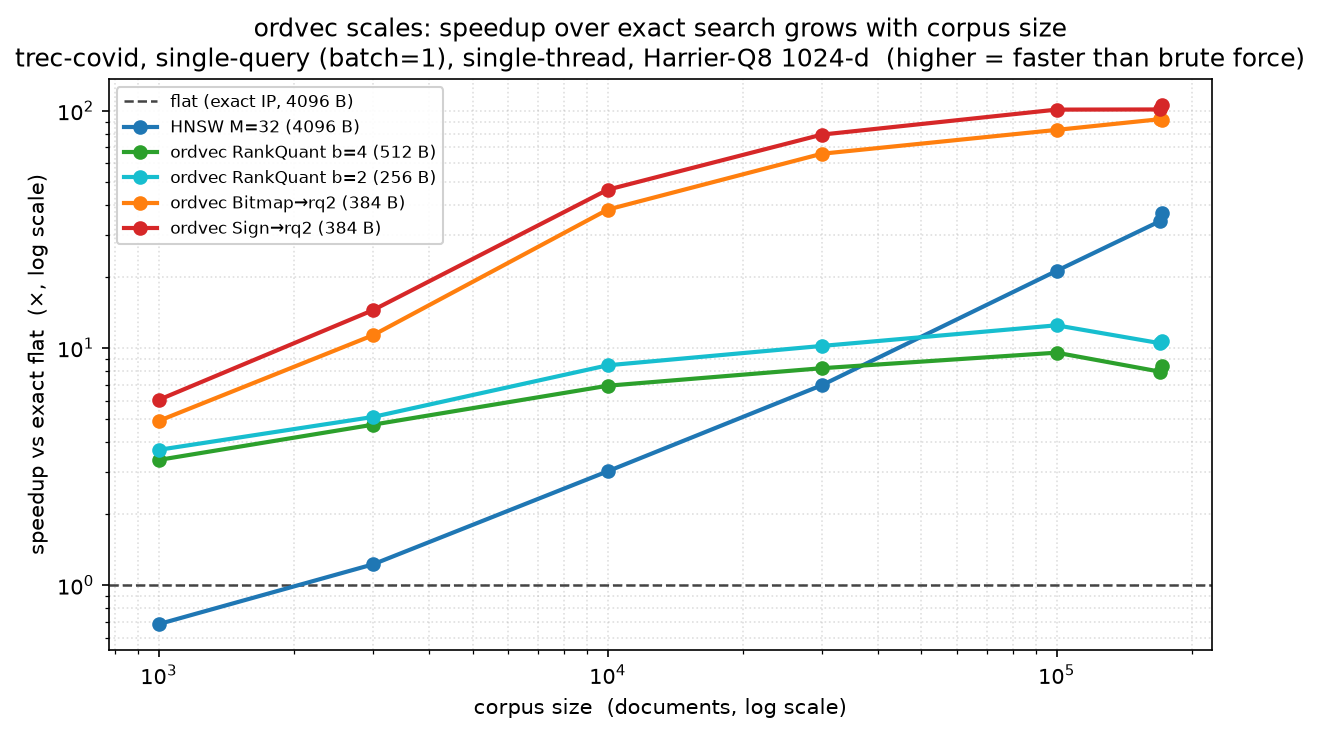
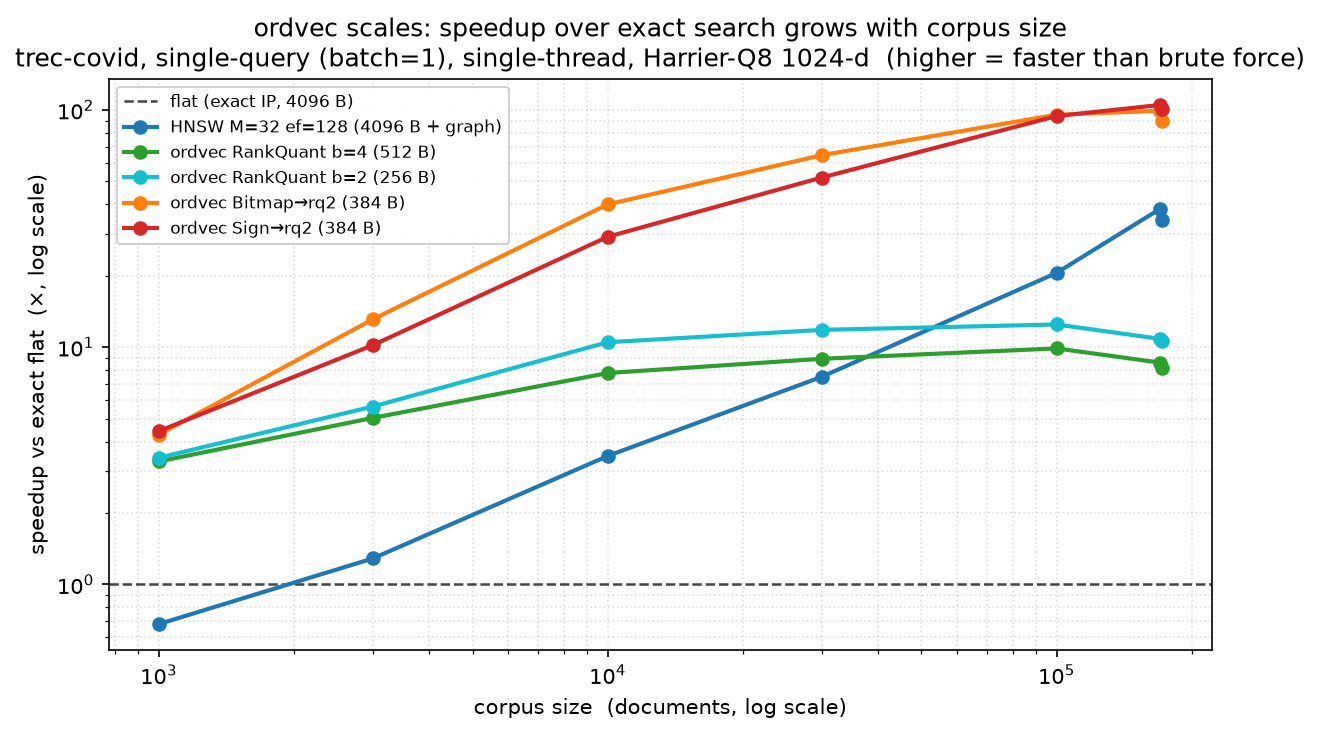
docs: refresh README benchmarks at the 0.6.0 heads
All figures and numbers regenerated by the committed make benchmark-beir
pipeline on the same host class (9950X). Quality: nDCG within bootstrap
noise of exact on both datasets, sign-rq2 trec-covid 0.7638 unchanged
(deterministic selection held bit-identical through the perf train).
Single-query hero effectively unchanged (52.4 ms flat vs 0.52 ms
sign-rq2, ~101x) — that lane was intentionally untouched. Batched
1-thread view improves to ~10-12x over batched flat (once-per-call
corpus streaming); threaded view: HNSW still leads, margin narrowed
from ~2.3x to 1.6x over sign-rq2 (1.2x over bitmap-rq2). Build 47.1s
vs 0.21s. No larger-corpus claims added.

diff --git a/README.md b/README.md
@@ -38,9 +38,10 @@ append-friendly, and graph-optional.
 > trec-covid run below; the harness also supports nfcorpus and fiqa. ordvec wins
 > single-query latency against exact `flat` on the committed 171K-doc run and on
 > operability (no build, no tuning, append-only); in the committed default-method
-> threaded view, HNSW still wins highly-parallel batched serving. Larger-corpus
-> and alternate-encoder studies are active research, not public release claims
-> until their artifacts land in this repository.**
+> threaded view, HNSW still leads highly-parallel batched serving, though 0.6.0's
+> once-per-call corpus streaming narrowed that margin (see the threaded view
+> below). Larger-corpus and alternate-encoder studies are active research, not
+> public release claims until their artifacts land in this repository.**
 
 **Public evidence snapshot.** The load-bearing result in this README is narrower
 than the research backlog: Harrier-Q8 embeddings on public BEIR data, scored
@@ -60,8 +61,8 @@ and the gap widens over the committed subsampling sweep:
 ![ordvec speedup over exact search grows with corpus size](https://raw.githubusercontent.com/Project-Navi/ordvec/main/benchmarks/beir/figures/scaling_curve.png)
 
 - **~100× faster than exact `flat`, single query, at 171K docs.** Single-query
-  latency: exact `flat` 56 ms vs ordvec `Sign→rq2` **0.53 ms** — the gap over `flat`
-  grows with the corpus (it is ~5× at 1K docs).
+  latency: exact `flat` 52.4 ms vs ordvec `Sign→rq2` **0.52 ms (≈101×)** — the gap
+  over `flat` grows with the corpus (it is ~4.4× at 1K docs).
 - **8–16× smaller for the reported qrel rows.** The b=2 rank code is 256 B/vector
   (16× smaller than 4096 B floats), b=4 is 512 B (8×), and the reported two-stage
   `sign→rq2` row accounts for both stage-1 sign codes and the RankQuant reranker
@@ -70,8 +71,10 @@ and the gap widens over the committed subsampling sweep:
   followed by RankQuant b=2 rerank. At **nDCG@10 within bootstrap noise of exact**
   (on trec-covid the ordinal rows even edge ahead; see [Benchmarks](#benchmarks)).
 - **vs HNSW (the honest public scale story).** On the committed trec-covid run,
-  ordvec wins single-query latency while HNSW wins the highly-parallel threaded
-  view. That is the public comparison here. At larger corpora, graph or shard
+  ordvec wins single-query latency (≈3× at batch 1) while HNSW leads the
+  highly-parallel threaded view — by 1.6× over `sign→rq2` and 1.2× over
+  `bitmap→rq2` after 0.6.0's batched candidate generation (previously ≈2.3×).
+  That is the public comparison here. At larger corpora, graph or shard
   layers are the right comparison target; this README does not claim public
   million-scale HNSW crossover or GPU bandwidth numbers until the underlying run
   artifacts are committed.
@@ -384,13 +387,13 @@ run; regenerate your own with `make benchmark-beir`.
 
 | Dataset | Method | Bytes/vec | nDCG@10 | Δ vs flat (95% CI) |
 |---|---|--:|--:|---|
-| scifact (5,183) | `flat` (exact) | 4096 | 0.7551 | (baseline) |
-| | `hnsw` M=32 | 4096 + graph | 0.7554 | +0.0003 * |
-| | **ordvec rq4** | **512** | **0.7549** | −0.0003 * |
-| | ordvec rq2 | 256 | 0.7471 | −0.0080 * |
-| | ordvec sign→rq2 | 384 | 0.7471 | −0.0080 * |
+| scifact (5,183) | `flat` (exact) | 4096 | 0.7559 | (baseline) |
+| | `hnsw` M=32 | 4096 + graph | 0.7573 | +0.0014 * |
+| | **ordvec rq4** | **512** | **0.7580** | +0.0021 * |
+| | ordvec rq2 | 256 | 0.7484 | −0.0075 * |
+| | ordvec sign→rq2 | 384 | 0.7484 | −0.0075 * |
 | trec-covid (171,332) | `flat` (exact) | 4096 | 0.7574 | (baseline) |
-| | `hnsw` M=32 | 4096 + graph | 0.7555 | −0.0019 * |
+| | `hnsw` M=32 | 4096 + graph | 0.7600 | +0.0026 * |
 | | ordvec rq2 | 256 | 0.7632 | +0.0057 * |
 | | **ordvec rq4** | **512** | **0.7636** | +0.0062 * |
 | | ordvec sign→rq2 | 384 | 0.7638 | +0.0064 * |
@@ -411,33 +414,37 @@ views (trec-covid, 171,332 docs, 1024-d):
 
 ![single-query latency bars](https://raw.githubusercontent.com/Project-Navi/ordvec/main/benchmarks/beir/figures/bars_single_thread.png)
 
-`flat` 56 ms → ordvec `sign→rq2` **0.53 ms (≈106×)**, `bitmap→rq2` 0.62 ms (≈91×),
-`hnsw` 1.5 ms (37×). The scaling curve [above](#benchmark-at-a-glance) is this
+`flat` 52.4 ms → ordvec `sign→rq2` **0.52 ms (≈101×)**, `bitmap→rq2` 0.58 ms (≈90×),
+`hnsw` 1.5 ms (≈34×). The scaling curve [above](#benchmark-at-a-glance) is this
 view swept over the committed subsamples — the speedup over `flat` grows across
 that public sweep.
 
 **2. Batched throughput (batch = 32, 1 thread)** — when many queries arrive at
-once, `flat`'s GEMM amortizes the corpus stream across the batch (56→4 ms),
-narrowing the gap: ordvec `sign→rq2`/`bitmap→rq2` stay ≈8–9.5× ahead.
+once, `flat`'s GEMM amortizes the corpus stream across the batch (52→3.8 ms).
+Since 0.6.0, ordvec's batched candidate generation amortizes the same way — the
+serial CSR path streams the corpus **once per call** instead of once per query
+(1.69× on the committed synthetic two-stage bench) — so `sign→rq2` 0.33 ms /
+`bitmap→rq2` 0.38 ms stay **≈10–12× ahead** of batched `flat`.
 
 **3. Many cores (batch = 32, 32 threads)** — everything parallelizes and the
 field compresses; `hnsw` threads best:
 
 ![threaded throughput bars](https://raw.githubusercontent.com/Project-Navi/ordvec/main/benchmarks/beir/figures/bars_threaded.png)
 
-`hnsw` 4.8× vs `flat`, ordvec `bitmap→rq2` 3.7×, `rq2` 2.5×, `sign→rq2` 2.1×.
+`hnsw` 4.9× vs `flat`, ordvec `bitmap→rq2` 4.0×, `sign→rq2` 3.1×, `rq2` 2.2×.
 This committed chart uses the default `sign-rq2` row, not the newer
 within-query-threaded `sign-rq2-threaded` probe row; regenerate public figures
 before using that probe for release claims. In this default-method view,
-**HNSW wins this regime** — by a hair on threaded throughput. The honest
+**HNSW still leads this regime** — 1.6× over `sign→rq2` (≈2.3× before 0.6.0's
+once-per-call corpus streaming) and 1.2× over `bitmap→rq2`. The honest
 ordvec-vs-HNSW tradeoff, all from this same run (trec-covid, 171,332 docs):
 
 | | HNSW M=32 | ordvec `sign→rq2` |
 |---|---|---|
-| threaded latency (32 threads, batch 32) | **0.23 ms** ✅ | 0.52 ms |
-| single-query latency (batch 1) | 1.52 ms | **0.53 ms** ✅ (~3×) |
+| threaded latency (32 threads, batch 32) | **0.20 ms** ✅ | 0.32 ms |
+| single-query latency (batch 1) | 1.52 ms | **0.52 ms** ✅ (~3×) |
 | index size / vector | 4096 B + graph | **256–384 B** ✅ (8–16× less) |
-| build time, 171K docs | **51.4 s** | **0.26 s** ✅ (training-free) |
+| build time, 171K docs | **47.1 s** | **0.21 s** ✅ (training-free) |
 | nDCG@10 (trec-covid) | 0.7555 | **0.7638** ✅ |
 
 So even where HNSW edges ahead on threaded latency, ordvec gets there with **no